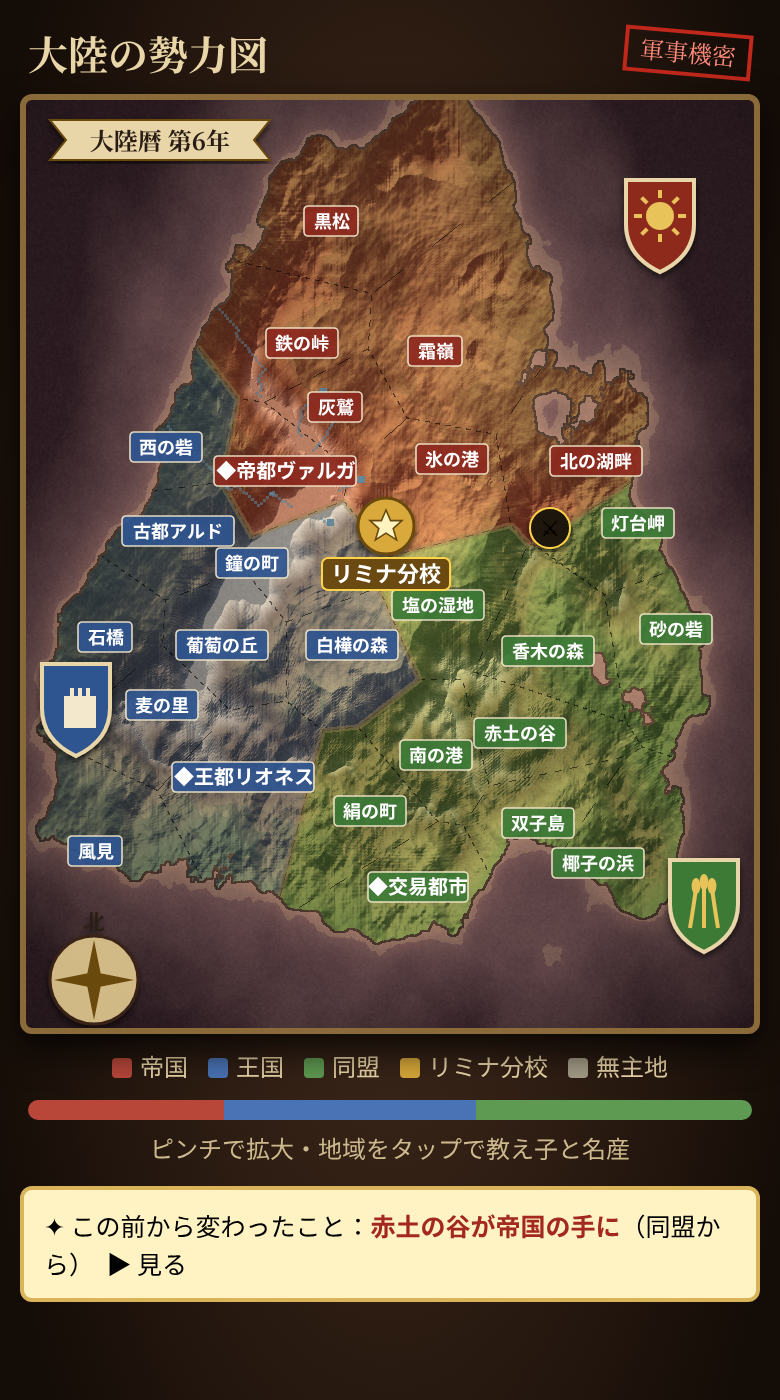
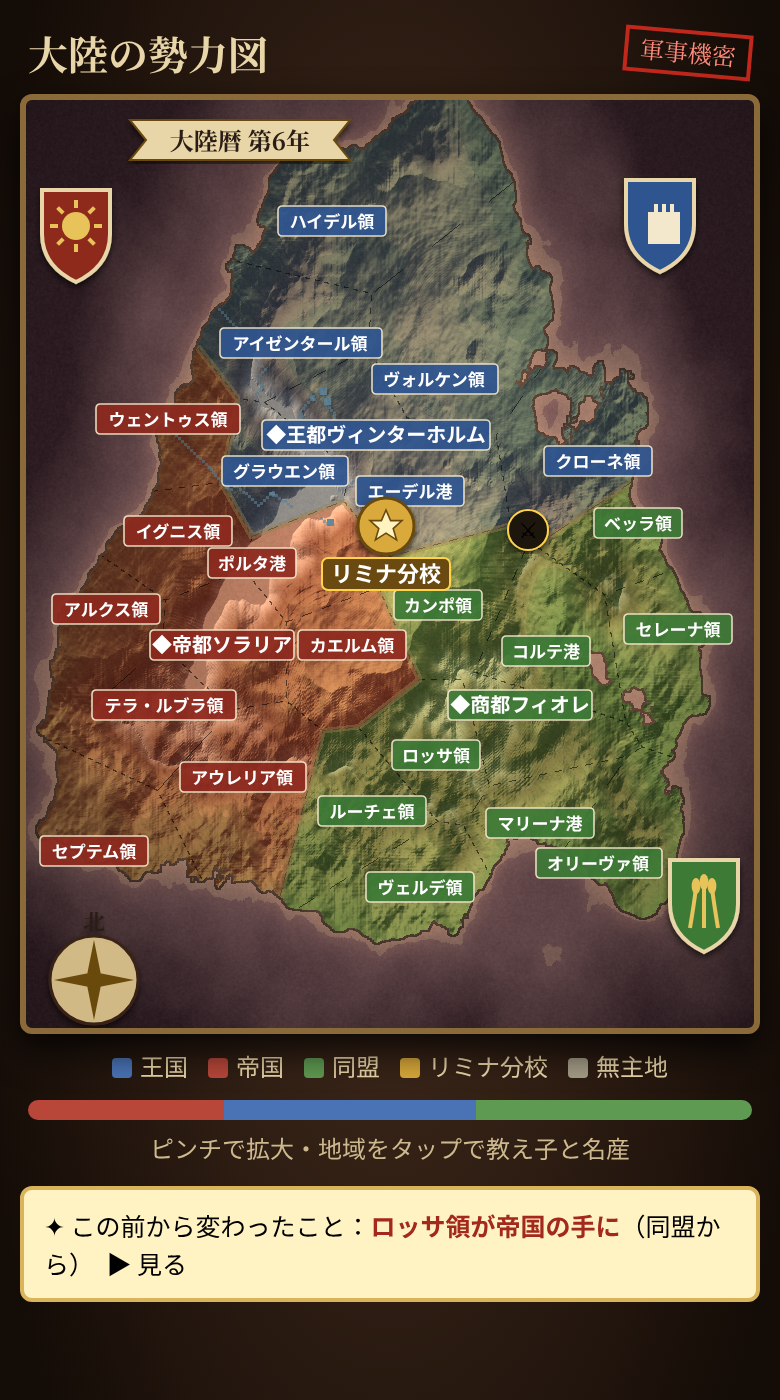
勢力図の見本：地名を街・都市・領の名前に、国ごとに響きをそろえる
Claude-Session: https://claude.ai/code/session_01BQhBD91Adhy1JGZAXvfVAE

diff --git a/docs/mockups/worldmap-gen.py b/docs/mockups/worldmap-gen.py
@@ -65,7 +65,7 @@ for x,y in seeds:
     elif a>=100 or a<=-140: f='K'
     else: f='A'
     fac.append(f)
-col={'E':(190,60,50),'K':(60,100,180),'A':(80,150,70),'N':(160,150,130)}
+col={'K':(190,60,50),'E':(60,100,180),'A':(80,150,70),'N':(160,150,130)}
 tint=np.zeros((H,W,3),np.float32)
 for i,f in enumerate(fac): tint[lab==i]=col[f]
 alpha=0.32
